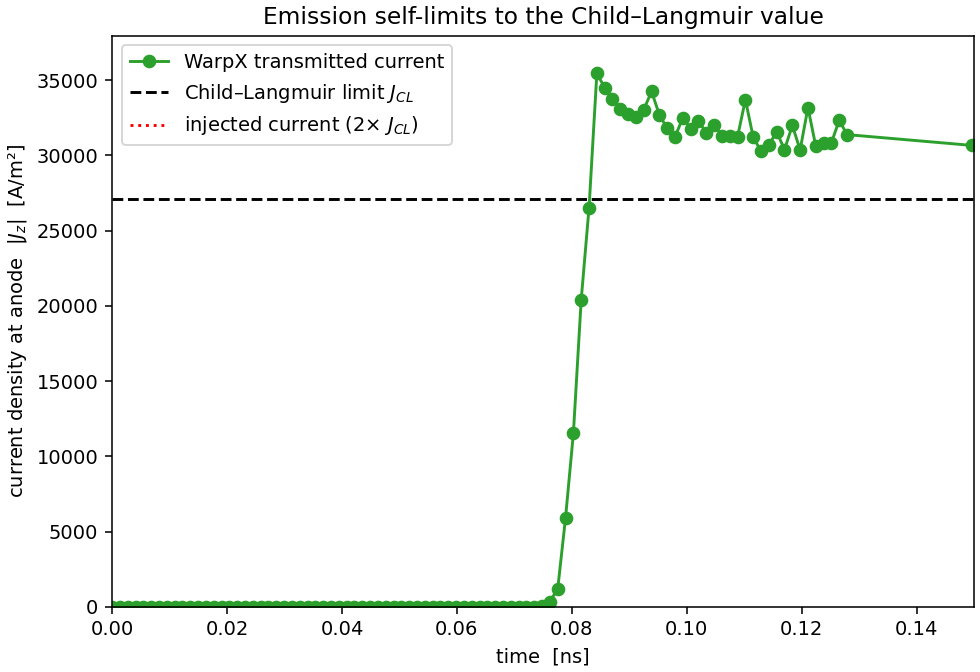
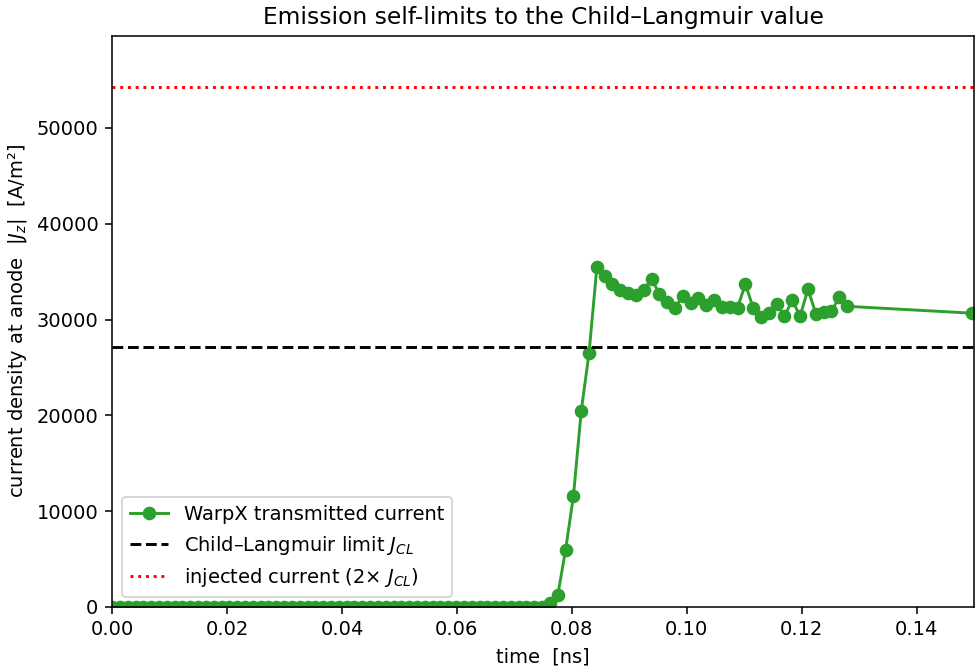
physics-review (cathode+gun): doc/figure fixes after timed/128×712 gun config
Phase-1 agent-team review of the cathode and gun stages found the cathode
clean (formulas, half-Maxwellian model, current self-limiting, slab/disc
emittance seam all verified correct); the substantive items were stale gun
docs/figures left over from the snapshot/coarse-grid era. Verified against the
on-disk diags and the CornellMisc GPT cross-check.

- gun exit energy headline "~146 keV" → "~149 keV" (measured 148.66 keV last
  dump / 148.79 handoff; GPT cross-check 148.87) across gun/README.md and the
  CLAUDE.md chain diagram. Code was already correct; only the prose was stale.
- space_charge.png well "≈ −250 V" → "≈ −6 V" at the near-launch snapshot the
  plotter selects (⟨z⟩≈0.3 mm, the realistic low-line-density timed beam);
  noted it deepens to ~−100 V at fuller dumps and the −250 V well was the old
  over-dense snapshot beam.
- current_saturation.png: ylim raised from J_CL·1.4 to 2.1·J_CL so the legended
  "injected 2×J_CL" reference line is on-screen — the over-injection story is
  the point of the figure. Figure regenerated from existing diags.
- gun/README.md perf-knobs "dz/dr ≈ 1.3" → "≈ 0.86" (actual at 128×712).
- gun_sim.py: clarified the timed-mode run-length comment — the domain avoids
  the MLMG charge-starvation abort by continuous re-supply until PULSE_WIDTH,
  not by particles staying in-domain (early particles reach the z=ZMAX plate).

No physics or code-correctness bugs found in either stage.

diff --git a/gun/gun_sim.py b/gun/gun_sim.py
@@ -284,9 +284,12 @@ def main():
     v_exit = c * np.sqrt(1.0 - 1.0 / gamma**2)
     dz = ZMAX / nz
     dt = CFL * dz / v_exit
-    # Run length is sized on the time to clear the FIELD region (ZMAX_FIELD), NOT the padded
-    # domain: the run must stop while the beam is still in the pad, before it drains out ZMAX —
-    # an empty domain aborts the MLMG solve (`MLMG failed`). MAX_STEPS (0 = auto) overrides.
+    # Run length is sized on the time the LAST-released particle takes to clear the FIELD region
+    # (ZMAX_FIELD), NOT the padded domain. In snapshot mode this also keeps the beam in-domain
+    # (it stops before draining out ZMAX). In timed mode early particles DO reach the z=ZMAX plate
+    # and get absorbed well before run-end — the domain avoids the MLMG charge-starvation abort
+    # (`MLMG failed`) only because continuous emission keeps re-supplying charge until PULSE_WIDTH,
+    # not because any one particle stays in-domain. MAX_STEPS (0 = auto) overrides.
     transit_field = ZMAX_FIELD / (AVG_SPEED_FRAC * v_exit)
     run_time = (PULSE_WIDTH if timed else 0.0) + TRANSIT_MARGIN * transit_field
     max_steps = MAX_STEPS or int(run_time / dt)

diff --git a/cathode/plot_cathode.py b/cathode/plot_cathode.py
@@ -135,7 +135,8 @@ def main():
     ax.set_ylabel(r"current density at anode  $|J_z|$  [A/m²]")
     ax.set_title("Emission self-limits to the Child–Langmuir value")
     ax.set_xlim(0, 0.15)
-    ax.set_ylim(0, J_CL * 1.4)
+    # headroom for the 2×J_CL injected-current reference line (the over-injection story)
+    ax.set_ylim(0, over_inject * J_CL * 1.1)
     ax.legend()
     fig.savefig(f"{RESULTS}/current_saturation.png", dpi=140)
     print(f"wrote {RESULTS}/current_saturation.png")

diff --git a/gun/README.md b/gun/README.md
@@ -47,11 +47,11 @@ beam representation (see *Beam source*; `"timed"` runs ~5× longer than `"snapsh
 run spans the full pulse + a transit instead of one transit); the grid `nr, nz`; and
 `SPACE_CHARGE` (default `True`). Setting
 `SPACE_CHARGE=False` passes `warpx_do_not_deposit` (beam self-field off, only the applied gun field
-acts) — but note the self-field is *dominant* here at 146 keV (it "dwarfs the gun field," ~17% of
+acts) — but note the self-field is *dominant* here at 149 keV (it "dwarfs the gun field," ~17% of
 charge is already lost to it), so SC-off is a large physics change, not a mild diagnostic. Runtime ≈
 `nz²` (per-step cost ∝ cells, and
 `dz = ZMAX/nz` ⇒ fewer steps as `nz` drops), so halving `nz` ≈ 4× faster. This holds because the
-gun's cells are near-isotropic (`dz/dr ≈ 1.3`) so the MLMG solve stays well-conditioned as `nz`
+gun's cells are near-isotropic (`dz/dr ≈ 0.86`) so the MLMG solve stays well-conditioned as `nz`
 drops — **unlike the injector's long-thin box**, where coarsening `NZ` slows the solve instead
 (see `injector/README.md`). Keep `N_DIAGS ≥ 20` so `space_charge.png` still finds its
 near-launch field snapshot (it self-skips otherwise).
@@ -116,7 +116,7 @@ bunch charge. We:
 **Why renormalize:** injecting the full 82 nC as one instantaneous bunch is unphysical — its
 radial space-charge field dwarfs the gun field and blows the beam apart before it
 accelerates (observed directly: the beam is absorbed within ~50 steps). At 1 nC the beam still
-transports and accelerates to ~146 keV. Set `BUNCH_CHARGE` at the top of `gun_sim.py` to
+transports and accelerates to ~149 keV. Set `BUNCH_CHARGE` at the top of `gun_sim.py` to
 explore the space-charge regime.
 
 ### Beam representation — time-release vs snapshot (`BEAM_RELEASE`)
@@ -202,7 +202,7 @@ on the PICMI `ElectrostaticSolver`): on top of the electrostatic Poisson solve (
 (∇²**A** = −μ₀**j**, **B** = ∇×**A**), so the beam's **self magnetic field** is included. The
 resulting magnetic-pinch force `qβ×B` partially cancels the radial electric repulsion, giving the
 correct relativistic net transverse self-force `qE_r/γ²` rather than the pure-electrostatic `qE_r`.
-At the gun exit (146 keV, γ ≈ 1.29) the plain labframe-electrostatic solver would **overestimate
+At the gun exit (149 keV, γ ≈ 1.29) the plain labframe-electrostatic solver would **overestimate
 the transverse space-charge force by ≈ γ² = 1.66×, i.e. ~66 %** (ramping from a few % near the
 cathode at 10 keV to ~66 % at exit); the electromagnetostatic solver removes that error
 self-consistently. (WarpX's per-species *relativistic* ES mode is an alternative for a single
@@ -218,7 +218,7 @@ for a quick check.) **Boundary requirement:** the outer radial wall is
 would otherwise have an all-Neumann singular operator and the MLMG bottom solve **diverges**
 (`MLMG failed`). Grounding the pipe at r = 15 mm — well outside the r ≲ 8 mm beam — makes it
 well-posed (it also models φ as a grounded conductor rather than a Neumann mirror, physically
-the real beampipe); the headline exit energy is unchanged (146 keV). Transmission depends on the
+the real beampipe); the headline exit energy is unchanged (149 keV). Transmission depends on the
 beam representation: ≈ 81 % for the over-dense `snapshot` beam (halo blown to the wall), ≈ 100 %
 for the realistic `timed` release (the low line-density beam barely diverges) — see *Beam
 representation*.
@@ -271,13 +271,16 @@ recipe, not just a WarpX convention.
    than carrying the bin-to-bin sampling jitter a z-histogram of the pooled quasi-DC stream produces.
    `energy_gain.png` shares the same screen reconstruction.
 6. **`space_charge.png`** — `r–z` maps of the beam **self-field** (`ρ` and the space-charge
-   potential well `φ`, ≈ −250 V) at a near-launch snapshot — the dumped self-field nothing else
-   plots, and the well that motivates renormalizing the bunch to 1 nC.
+   potential well `φ`, ≈ −6 V at the near-launch snapshot plotted — ⟨z⟩ ≈ 0.3 mm) — the dumped
+   self-field nothing else plots, and the well that motivates renormalizing the bunch to 1 nC.
+   The realistic low-line-density `timed` beam makes this well shallow (it deepens to only
+   ~−100 V at the fuller later dumps); the ~−250 V well is the old over-dense `snapshot` beam.
 
 ## Notes / extensions
 
 - The beam energy gain tracks `∫ e·|Ez| dz` (≈ 7.5 keV by z ≈ 4 mm), approaching the ~150 keV
-  set by the cathode→exit potential drop (the space-charge-loaded beam lands at ~146 keV mean).
+  set by the cathode→exit potential drop (the space-charge-loaded beam lands at ~149 keV mean,
+  cross-validated against GPT at 148.9 keV — see *Cross-code validation*).
 - To approach the continuous-emission picture, inject a train of bunches or feed the cathode
   current directly rather than a single snapshot.
 - A solenoid (magnetic focusing) could be added via a second `read_from_file` B map if the

diff --git a/.claude/CLAUDE.md b/.claude/CLAUDE.md
@@ -10,7 +10,7 @@ Concretely, the repo rebuilds the front end of the Cornell Linac (Adam Bartnik's
 
 ```
 cathode  ─►  gun  ─►  injector  ─►  linac_sec1  ─►  linac_rest
-(SCL diode)  (~146 keV)  (2 prebunchers + 3 solenoids,  (~25 MeV captured,  (sections 2–8,
+(SCL diode)  (~149 keV)  (2 prebunchers + 3 solenoids,  (~25 MeV captured,  (sections 2–8,
               velocity bunching + focusing, ~2 m)        SLAC TW section)     ~308 MeV, Impact-T)
 ```
 
